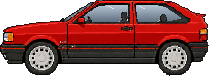
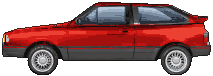
Gaúcho GTI: lateral refeita da foto do GTI, volante mais baixo e retrovisor; trocas de marcha mais lentas
- Lateral reconstruída do perfil do Gol GTI (contorno medido na foto) com a paleta de
  vermelhos e vidros da arte, saia em cinza escuro como frente e traseira, calotas lisas
- Cabine: volante 20 linhas mais baixo (o aro não tapa a estrada), marcações cortadas na
  borda do quadro, vidro do retrovisor esquerdo preenchido (o reflexo volta a aparecer)
- Troca de marcha de câmbio manual: 0,45 s, o giro cai com a embreagem e casa com a marcha
  nova, ronco sem carga durante a troca
- Pneu cantando na largada mais baixo

Claude-Session: https://claude.ai/code/session_01MLD9VR7gkmY4w6a9beZcp6

diff --git a/src/cockpit.ts b/src/cockpit.ts
@@ -36,6 +36,7 @@ interface CockpitArt {
   dy?: number; // desce a cabine inteira (painel alto demais tapando a pista)
   wheelDx?: number; // desloca o volante para a direita (alinha com o quadro de instrumentos)
   wheelTop?: number; // linhas do PNG do volante acima do topo da arte (aro inteiro sobre o para-brisa)
+  wheelDy?: number; // desce o volante (posição do banco: o aro não tapa a estrada)
   pivot: [number, number]; // centro do aro (pixels nativos, a partir do topo da arte)
   tach?: Dial;
   speed?: Dial;
@@ -215,6 +216,10 @@ function golDrums(c: CanvasRenderingContext2D, ox: number, r: Race, b: Box, base
 function golCluster(c: CanvasRenderingContext2D, ox: number, r: Race, art: CockpitArt) {
   const T = ART_TOP;
   const sp = art.speed!, t = art.tach!;
+  c.save();
+  c.beginPath();
+  c.rect(ox + 56, T + 18, 158, 60); // borda de baixo do quadro
+  c.clip();
   // velocímetro: "vdo km", hodômetro, parcial com o botão de zerar e "km/h"
   tiny(c, 'vdo', ox + sp.x + 1, T + sp.y - 15);
   tiny(c, 'km', ox + sp.x + 1, T + sp.y - 12);
@@ -230,6 +235,7 @@ function golCluster(c: CanvasRenderingContext2D, ox: number, r: Race, art: Cockp
   drawIcon(c, 'temp', ox + t.x - 3, T + t.y + 13, GTI_INK);
   golMini(c, ox + t.x + 9, T + t.y + 17, 9, -Math.PI * 0.2, Math.PI * 0.26, gauges.fuel, art);
   drawIcon(c, 'fuel', ox + t.x + 4.5, T + t.y + 13, GTI_INK);
+  c.restore();
   // módulo do meio
   const mx = ox + 121, my = T + 24;
   rect(c, mx, my, 28, 52, '#0c0c0e');
@@ -304,7 +310,7 @@ function golCluster(c: CanvasRenderingContext2D, ox: number, r: Race, art: Cockp
 }
 COCKPIT_ART['br-golgti'] = {
   dash: cp('br-golgti-dash'), top: cp('br-golgti-top'), wheel: cp('br-golgti-wheel'),
-  pivot: [128, 99.9], wheelTop: 28, speedMax: 240, needle: '#f4eedc', needleW: 1.5, needleTail: 4, hub: '#1a1a1c', radar: [222, 8],
+  pivot: [128, 99.9], wheelTop: 28, wheelDy: 20, speedMax: 240, needle: '#f4eedc', needleW: 1.5, needleTail: 4, hub: '#1a1a1c', radar: [222, 8],
   speed: { x: 89.5, y: 57.5, r: 28, max: 240, labels: [20, 40, 60, 80, 100, 120, 140, 160, 180, 200, 220, 240], tick: 10, red: 999, a0: Math.PI * 0.75, sweep: Math.PI * 1.5, labelScale: 0.7, ink: GTI_INK, bg: '#121214', cut: 20, boldTicks: true },
   tach: { x: 179.5, y: 57.5, r: 28, max: 7, labels: [1, 2, 3, 4, 5, 6, 7], tick: 0.25, red: 6.5, a0: Math.PI * 0.917, sweep: Math.PI * 1.167, labelScale: 0.7, redLabels: false, ink: GTI_INK, bg: '#121214', cut: 20, redInk: '#ff4a18', redW: 2.5, redHatch: true, boldTicks: true },
   aux: [],
@@ -394,7 +400,7 @@ export function interiorPhoto(carId: string, dash: string): HTMLCanvasElement | 
   } finally {
     ART_TOP = saved;
   }
-  g.drawImage(w, DASH_PAD + (art.wheelDx ?? 0), TOP_EXT - (art.wheelTop ?? 0));
+  g.drawImage(w, DASH_PAD + (art.wheelDx ?? 0), TOP_EXT - (art.wheelTop ?? 0) + (art.wheelDy ?? 0));
   interiorCache.set(key, cv);
   return cv;
 }
@@ -460,8 +466,9 @@ function drawCockpitArt(c: CanvasRenderingContext2D, r: Race, dt: number, art: C
   radarLeds(c, ox + rx + 2, ART_TOP + ry + 1, 26, r.radar);
   signalArrows(c, ox + rx, ART_TOP + ry, 30, r.signal);
   const wdx = art.wheelDx ?? 0;
-  const px = ox + wdx + art.pivot[0], py = ART_TOP + art.pivot[1];
-  withRotation(c, px, py, steerAngle(r, dt), () => c.drawImage(wheelImg, ox + wdx, ART_TOP - (art.wheelTop ?? 0)));
+  const wdy = art.wheelDy ?? 0;
+  const px = ox + wdx + art.pivot[0], py = ART_TOP + art.pivot[1] + wdy;
+  withRotation(c, px, py, steerAngle(r, dt), () => c.drawImage(wheelImg, ox + wdx, ART_TOP - (art.wheelTop ?? 0) + wdy));
   return true;
 }
 
@@ -510,6 +517,13 @@ function artDial(c: CanvasRenderingContext2D, d: Dial, ox: number, frac: number,
   for (let dy = -Math.floor(ry); dy <= Math.min(Math.floor(ry), d.cut ?? 99); dy++) {
     const hw = Math.round(r * Math.sqrt(Math.max(0, 1 - (dy / ry) ** 2)));
     c.fillRect(cx - hw, cy + dy, hw * 2 + 1, 1);
+  }
+  // cut: marcações e números também param na borda do painel
+  c.save();
+  if (d.cut !== undefined) {
+    c.beginPath();
+    c.rect(cx - r - 8, cy - ry - 8, r * 2 + 17, ry + 8 + d.cut + 1);
+    c.clip();
   }
   const at = (a: number, rr: number): [number, number] => [cx + 0.5 + Math.cos(a) * rr, cy + 0.5 + Math.sin(a) * rr * PIX_Y];
   const fr = (v: number) => a0 + (sweep * v) / d.max;
@@ -566,6 +580,7 @@ function artDial(c: CanvasRenderingContext2D, d: Dial, ox: number, frac: number,
     const [lx, ly] = at(a, r - (ls > 0.5 ? 3.2 : 2.7) - (Math.abs(Math.cos(a)) * pixWidth(l, ls) * 0.5 + Math.abs(Math.sin(a)) * 2.5 * ls) * (ls > 0.5 ? 1.3 : 1) - (ls > 0.5 ? 0.6 : 0));
     pix(c, l, lx, ly, col, ls);
   }
+  c.restore();
   needle(c, cx, cy, r, a0 + sweep * Math.max(0, Math.min(1.02, frac)), art);
 }
 

diff --git a/src/race.ts b/src/race.ts
@@ -1,5 +1,5 @@
 import { CAR_W, KMH, LANE_W, PLAYER_Z, POLICE_W, SEG_LEN, TRUCK_W } from './config';
-import { aeroMul, CARS, G, LAUNCH_BOOST, Powertrain, perfClass, resistAcc, toGame, toMs, type CarLook, type CarSpec, type PerfClass } from './cars';
+import { aeroMul, CARS, G, LAUNCH_BOOST, Powertrain, perfClass, resistAcc, toGame, toMs, type CarLook, type CarSpec, type PerfClass, SHIFT_T } from './cars';
 import { PAINTS } from './paint';
 import type { Course, StageDef } from './courses';
 import { THEMES, blendTheme, fogTheme, nightTheme, rainTheme, sunsetTheme, type Theme } from './themes';
@@ -511,7 +511,21 @@ export class Race {
     this.speed = clamp(this.speed, 0, max * 1.12);
     // patinando, o giro sobe sem o carro andar
     this.spin = lerp(this.spin, this.pt.spin, Math.min(1, dt * 8));
-    this.rpm = Math.min(1.02, this.speed / (max * this.car.gears[this.gear]) + this.spin * 0.3);
+    const rpmGear = Math.min(1.02, this.speed / (max * this.car.gears[this.gear]) + this.spin * 0.3);
+    // troca de marcha de câmbio manual: embreagem pisada, o giro cai devagar no começo e depressa
+    // depois, e casa com a marcha nova quando ela entra (na redução, sobe no "punta-tacco")
+    if (this.gear !== this.shownGear) {
+      const up = this.gear > this.shownGear;
+      this.shiftFrom = this.rpm;
+      this.shiftDur = up ? SHIFT_T : 0.25;
+      this.shiftLeft = this.shiftDur;
+      this.shownGear = this.gear;
+    }
+    if (this.shiftLeft > 0) {
+      this.shiftLeft -= dt;
+      const u = clamp(this.shiftLeft / this.shiftDur, 0, 1);
+      this.rpm = rpmGear + (this.shiftFrom - rpmGear) * u * u * (3 - 2 * u);
+    } else this.rpm = rpmGear;
 
     // ---- direção e aderência ----
     // Na curva, a força lateral é v² × curvatura (em g, independe do carro). Os pneus seguram
@@ -666,14 +680,19 @@ export class Race {
     this.lastGear = this.gear;
     const offRoad = Math.abs(this.x) > t.roadW + 700;
     // pneu canta só escorregando (derrapagem, rodada, patinando); frear em linha reta não
-    const screech = driving && !offRoad ? Math.max(this.slip * 1.4, Math.abs(this.drift) * 2.2, this.spin * 1.2, this.spinOut > 0 ? 1 : 0) : 0;
+    const screech = driving && !offRoad ? Math.max(this.slip * 1.4, Math.abs(this.drift) * 2.2, this.spin * 0.55, this.spinOut > 0 ? 1 : 0) : 0;
     const surface = this.def.weather === 'snow' ? 'snow' : this.def.weather === 'rain' ? 'wet' : 'dry';
     setTires(screech, offRoad && this.speed > 100 ? 0.4 + speedPct * 0.6 : 0, surface, driving || this.state === 'arrived' ? speedPct : 0);
-    setEngine(Math.max(0.1, this.rpm), this.throttle, true, this.turboCar ? this.pt.boost : 0);
+    // durante a troca o pé sai do acelerador: o ronco perde carga até a marcha entrar
+    setEngine(Math.max(0.1, this.rpm), this.throttle && this.pt.shiftT <= 0, true, this.turboCar ? this.pt.boost : 0);
     setSteam(this.smoke);
   }
 
   private lastGear = 0;
+  private shownGear = 0; // marcha que o giro já acompanha (durante a troca, o giro faz a transição)
+  private shiftFrom = 0;
+  private shiftDur = 0;
+  private shiftLeft = 0;
   crashPoint = { x: 0.5, y: 0.5 };
 
   private spinDir = 1;

diff --git a/src/cars.ts b/src/cars.ts
@@ -328,7 +328,7 @@ const LAMPS: Record<string, LampDef> = {
 // sprite), medidas pelo aro claro acima do contato com o chão: giram na chegada ao posto
 const WHEELS: Record<string, number[][]> = {
   '959': [[0.199, 0.739, 0.08], [0.754, 0.74, 0.08]],
-  'br-golgti': [[0.193, 0.758, 0.084], [0.817, 0.758, 0.084]],
+  'br-golgti': [[0.201, 0.79, 0.072], [0.827, 0.79, 0.072]],
   'br-vectra': [[0.175, 0.788, 0.066], [0.777, 0.792, 0.064]],
   'countach': [[0.234, 0.733, 0.07], [0.827, 0.708, 0.077]],
   'diablo': [[0.204, 0.73, 0.072], [0.794, 0.72, 0.074]],
@@ -420,7 +420,7 @@ export function gearFor(car: CarSpec, speed: number) {
 }
 
 // ---------- trem de força: câmbio com tempo de troca, turbo com atraso e patinação ----------
-export const SHIFT_T = 0.22; // corte de potência a cada marcha acima (s)
+export const SHIFT_T = 0.45; // troca manual: embreagem, alavanca e embreagem de volta, sem potência (s)
 export const LAUNCH_BOOST = 0.6; // pressão do turbo na largada, segurando o giro na contagem
 // k: parte da potência que depende da pressão do turbo; rate: rapidez com que ela enche (1/s)
 const TURBO: Partial<Record<PowerCurve, { k: number; rate: number }>> = {

diff --git a/tools/ref/gol_side_photo.py b/tools/ref/gol_side_photo.py
@@ -1,0 +1,154 @@
+"""Lateral do Gaúcho GTI reconstruída a partir da foto de perfil do Gol GTI (fundo branco de
+estúdio): recorte do carro, redução para a largura do sprite com paleta curta (sem pontilhado),
+lataria vinho trocada pelo vermelho do jogo (com a máscara de pintura), vidros escuros viram o
+vidro azulado das outras vistas (o interior aparece por trás), saia/para-choques prateados
+viram o cinza escuro da frente e da traseira, os emblemas da marca nas rodas viram calota lisa
+e a silhueta ganha contorno escuro.
+
+Uso: python3 tools/ref/gol_side_photo.py <foto> <src/assets/cars> [largura]
+ATENÇÃO: sprite derivado de foto de terceiros, só para o projeto privado.
+"""
+import os
+import sys
+
+import cv2
+import numpy as np
+from PIL import Image
+
+CROP = (15, 160, 1285, 612)                # x0, y0, x1, y1 na foto
+WHEELS = [(270, 518), (1065, 518)]         # centros das rodas na foto
+RIM = 64                                   # raio do aro (foto)
+LOGO = 20                                  # raio do emblema no miolo
+WINDOWS = [
+    [(470, 300), (560, 226), (597, 203), (597, 302)],                       # quebra-vento
+    [(597, 200), (762, 200), (762, 300), (597, 302)],                       # porta
+    [(837, 198), (1030, 210), (1125, 275), (1120, 296), (840, 299)],        # traseiro
+]
+RED = np.array([206, 22, 20], float)       # vermelho da arte (meio-tom)
+# rampas da arte desenhada (lateral original): vermelhos da lataria e azuis do vidro
+REDS = [(86, 8, 8), (128, 12, 12), (164, 16, 14), (192, 20, 18), (214, 30, 24), (236, 64, 50), (250, 120, 100)]
+GLASS = [(40, 46, 56), (70, 82, 98), (98, 114, 134), (126, 144, 164), (156, 174, 194), (184, 200, 216)]
+
+
+# contorno do carro medido na foto (o branco do estúdio confunde vidros e saia prateada com o fundo)
+OUTLINE = [(25, 420), (33, 365), (45, 352), (115, 330), (215, 316), (345, 301), (400, 293), (435, 285),
+           (575, 182), (615, 170), (1015, 185), (1055, 196), (1165, 250), (1253, 257), (1253, 276),
+           (1232, 292), (1236, 330), (1263, 358), (1263, 412), (1272, 430), (1273, 452), (1265, 488),
+           (1175, 497), (1150, 505), (960, 510), (945, 522), (395, 522), (380, 510), (165, 503),
+           (35, 497), (25, 480)]
+TIRE = 92
+
+
+def segment(img):
+    h, w = img.shape[:2]
+    fg = np.zeros((h, w), np.uint8)
+    cv2.fillPoly(fg, [np.array(OUTLINE, np.int32) - [CROP[0], CROP[1]]], 1)
+    for cx, cy in WHEELS:
+        cv2.circle(fg, (cx - CROP[0], cy - CROP[1]), TIRE, 1, -1)
+    fg[608 - CROP[1]:] = 0
+    return fg
+
+
+def main():
+    src, out = sys.argv[1], sys.argv[2]
+    width = int(sys.argv[3]) if len(sys.argv) > 3 else 209
+    full = cv2.cvtColor(cv2.imread(src), cv2.COLOR_BGR2RGB)
+    x0, y0, x1, y1 = CROP
+    img = full[y0:y1, x0:x1].copy()
+    h, w = img.shape[:2]
+    fg = segment(cv2.cvtColor(img, cv2.COLOR_RGB2BGR))
+    yy, xx = np.mgrid[0:h, 0:w]
+    X, Y = xx + x0, yy + y0
+    f = img.astype(float)
+    lum = f.mean(axis=2)
+    hsv = cv2.cvtColor(img, cv2.COLOR_RGB2HSV_FULL).astype(float)
+    hue, sat = hsv[..., 0] * 360 / 256, hsv[..., 1]
+    wheel = np.zeros((h, w), bool)
+    for cx, cy in WHEELS:
+        wheel |= (X - cx) ** 2 + (Y - cy) ** 2 <= TIRE ** 2
+    win = np.zeros((h, w), np.uint8)
+    for p in WINDOWS:
+        cv2.fillPoly(win, [np.array(p, np.int32) - [x0, y0]], 1)
+    win = win > 0
+    # lataria vinho: matiz vermelho-arroxeado com alguma saturação, fora de vidro e rodas
+    body = fg.astype(bool) & ~win & ~wheel & ((hue >= 300) | (hue <= 20)) & (sat > 40) & (lum > 18)
+    # reflexos brancos do estúdio na lataria (sem cor): também são lataria, só mais claros
+    paint_zone = fg.astype(bool) & ~win & ~wheel & (Y < 433) & (X > 40) & (X < 1240)
+    body |= paint_zone & (lum > 45) & (sat <= 40)
+    # molduras pretas das janelas e coluna B ficam pretas; lanterna fica com a cor da foto
+    frames = (X > 462) & (X < 1140) & (Y > 196) & (Y < 306)
+    tail = (X > 1226) & (X < 1266) & (Y > 356) & (Y < 414)
+    body &= ~frames & ~tail
+    # lanterna e pisca (vermelho vivo / âmbar) ficam como estão
+    vivid = (sat > 150) & (lum > 70) & ((hue <= 20) | (hue >= 345))
+    body &= ~(vivid & (X > 1200))
+    out_rgb = f.copy()
+    # vinho -> vermelho: a luminância da foto (normalizada pelo meio-tom da lataria) modula o vermelho
+    ref = np.median(lum[body])
+    # reflexos fortes da foto ficam suaves (brilho de lataria, não mancha branca)
+    k = lum / ref
+    k = np.where(k > 1, 1 + np.log1p(np.maximum(k - 1, 0)) * 0.5, k)
+    red = np.where(k[..., None] < 1, RED * k[..., None] ** 0.9, RED + (255 - RED) * np.clip(k[..., None] - 1, 0, 1) * 0.5)
+    out_rgb[body] = red[body]
+    sm = cv2.bilateralFilter(out_rgb.astype(np.float32), 9, 40, 9)
+    out_rgb[body] = sm[body]
+    # vidros: o escuro da foto vira o vidro claro das outras vistas; o interior (mais escuro) aparece
+    top, bot = 198, 302
+    t = np.clip((Y - top) / (bot - top), 0, 1)[..., None]
+    gl = np.array([176, 196, 216]) * (1 - t) + np.array([92, 112, 138]) * t
+    shade = np.clip(lum / np.percentile(lum[win], 80), 0.25, 1.15)[..., None]
+    g2 = gl * (0.5 + 0.5 * shade)
+    out_rgb[win] = g2[win]
+    # saia e para-choques prateados -> cinza escuro (como a frente e a traseira da arte)
+    silver = fg.astype(bool) & ~wheel & ~win & (sat < 45) & (lum > 95) & (Y > 425)
+    out_rgb[silver] = (f[silver] * 0.33 + 6)
+    # emblema da marca no miolo das rodas: calota lisa prateada
+    for cx, cy in WHEELS:
+        d = np.sqrt((X - cx) ** 2 + (Y - cy) ** 2)
+        cap = d <= LOGO
+        out_rgb[cap] = np.array([196, 198, 204]) - np.clip((Y[cap] - cy) / LOGO, -1, 1)[:, None] * 34
+        out_rgb[(d > LOGO) & (d <= LOGO + 3)] = (88, 90, 96)
+    # lanterna: vermelho vivo da foto, um pouco mais saturado
+    out_rgb[tail] = np.clip((f[tail] - f[tail].mean(axis=1, keepdims=True)) * 1.4 + f[tail].mean(axis=1, keepdims=True), 0, 255)
+    # reduz para a largura do sprite
+    H = round(h * width / w)
+    small = cv2.resize(out_rgb.astype(np.float32), (width, H), interpolation=cv2.INTER_AREA)
+    a = cv2.resize(fg.astype(np.float32), (width, H), interpolation=cv2.INTER_AREA) >= 0.5
+    bm = cv2.resize(body.astype(np.float32), (width, H), interpolation=cv2.INTER_AREA) >= 0.5
+    small = np.clip(small, 0, 255).astype(np.uint8)
+    q = np.array(Image.fromarray(small).quantize(colors=32, method=Image.Quantize.MEDIANCUT, dither=Image.Dither.NONE).convert('RGB'))
+    rgba = np.dstack([q, (a * 255).astype(np.uint8)])
+    # lataria e vidros na paleta da arte (rampas de vermelho e de vidro): nítido como pixel art
+    wm = cv2.resize(win.astype(np.float32), (width, H), interpolation=cv2.INTER_AREA) >= 0.5
+    sl = small.astype(float).mean(axis=2)
+    # lataria: reflexos do estúdio viram faixas; mediana larga e escala apertada (lataria lisa)
+    slb = cv2.medianBlur(np.clip(sl, 0, 255).astype(np.uint8), 5).astype(float)
+    for m, ramp, src_l, (p0, p1) in ((bm, REDS[1:6], slb, (8, 96)), (wm & a, GLASS, sl, (3, 97))):
+        sl_ = src_l
+        lv = np.array(ramp, float).mean(axis=1)
+        lo, hi = np.percentile(sl_[m], p0), np.percentile(sl_[m], p1)
+        tgt = lv.min() + np.clip((sl_ - lo) / max(1, hi - lo), 0, 1) * (lv.max() - lv.min())
+        idx = np.abs(tgt[..., None] - lv[None, None, :]).argmin(axis=2)
+        rgba[m, :3] = np.array(ramp, np.uint8)[idx[m]]
+    # vincos e frisos escuros da foto (portas, para-lamas) continuam escuros por cima
+    seam = bm & (sl < np.percentile(sl[bm], 4))
+    rgba[seam, :3] = REDS[0]
+    # farol e pisca na ponta da frente (a foto quase não mostra a lente)
+    fx = lambda X: int(round((X - CROP[0]) * width / w))
+    fy = lambda Y: int(round((Y - CROP[1]) * H / h))
+    rgba[fy(368):fy(408), fx(26):fx(36), :3] = (236, 232, 214)
+    rgba[fy(368):fy(372), fx(26):fx(36), :3] = (255, 255, 250)
+    rgba[fy(368):fy(408), fx(36):fx(46), :3] = (240, 150, 30)
+    rgba[fy(368):fy(408), fx(46), :3] = (20, 18, 16)
+    # contorno escuro na borda da silhueta
+    K4 = np.array([[0, 1, 0], [1, 1, 1], [0, 1, 0]], np.uint8)
+    edge = a & (cv2.erode(a.astype(np.uint8), K4) == 0)
+    rgba[edge, :3] = (rgba[edge, :3] * 0.3 + np.array([14, 14, 16]) * 0.7).astype(np.uint8)
+    bm &= cv2.erode(a.astype(np.uint8), K4) > 0
+    Image.fromarray(rgba, 'RGBA').save(os.path.join(out, 'br-golgti-side.png'))
+    Image.fromarray((bm * 255).astype(np.uint8)).convert('1').save(os.path.join(out, 'br-golgti-side-mask.png'))
+    print('lateral', width, H, 'máscara', int(bm.sum()))
+
+
+if __name__ == '__main__':
+    main()

diff --git a/tools/ref/gol_cockpit.py b/tools/ref/gol_cockpit.py
@@ -26,8 +26,31 @@ SS = 4                     # amostras por pixel (borda suave decidida por maiori
 RAMP = [(10, 10, 12), (22, 22, 25), (32, 32, 36), (42, 42, 47), (54, 54, 60), (68, 68, 75), (84, 84, 92), (104, 104, 112)]
 
 
+def mirror_glass(out):
+    """O vidro do retrovisor encosta na borda da arte e a importação o fez transparente (como o
+    céu): preenche o miolo da moldura vermelha com vidro claro, onde o jogo desenha o reflexo."""
+    tp, dp = os.path.join(out, 'br-golgti-top.png'), os.path.join(out, 'br-golgti-dash.png')
+    t, d = np.array(Image.open(tp).convert('RGBA')), np.array(Image.open(dp).convert('RGBA'))
+    a = np.vstack([t, d])
+    region = np.zeros(a.shape[:2], np.uint8)
+    region[62:114, 0:46] = 1
+    empty = ((a[..., 3] == 0) & (region > 0)).astype(np.uint8)
+    n, lab = cv2.connectedComponents(empty, connectivity=4)
+    k = lab[86, 20]
+    if k:
+        m = lab == k
+        ys = np.nonzero(m)[0]
+        for y in range(ys.min(), ys.max() + 1):
+            f = (y - ys.min()) / max(1, ys.max() - ys.min())
+            a[y, m[y]] = (int(214 - 34 * f), int(220 - 30 * f), int(228 - 26 * f), 255)
+    Image.fromarray(a[:t.shape[0]], 'RGBA').save(tp)
+    Image.fromarray(a[t.shape[0]:], 'RGBA').save(dp)
+    print('retrovisor: vidro com', int((lab == k).sum()) if k else 0, 'px')
+
+
 def main():
     out = sys.argv[1]
+    mirror_glass(out)
     geo = json.load(open(os.path.join(HERE, 'wheels', 'br-golgti.json')))
     cx, cy = geo['center']
     W, H = 256, TOP + ROWS
